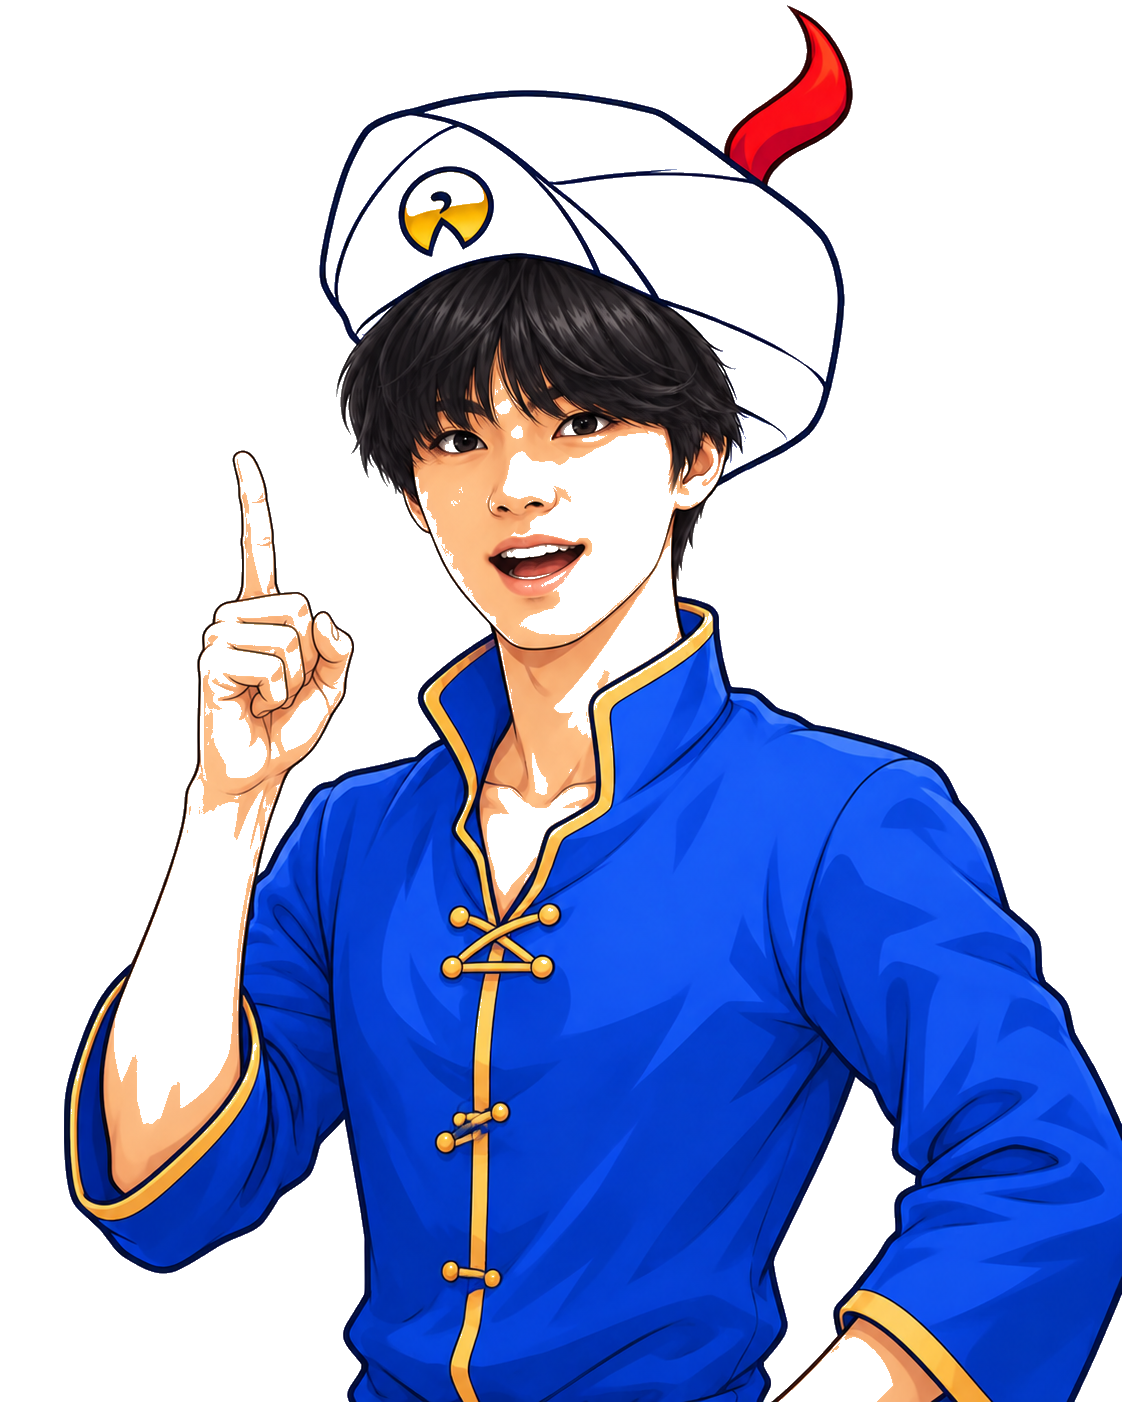
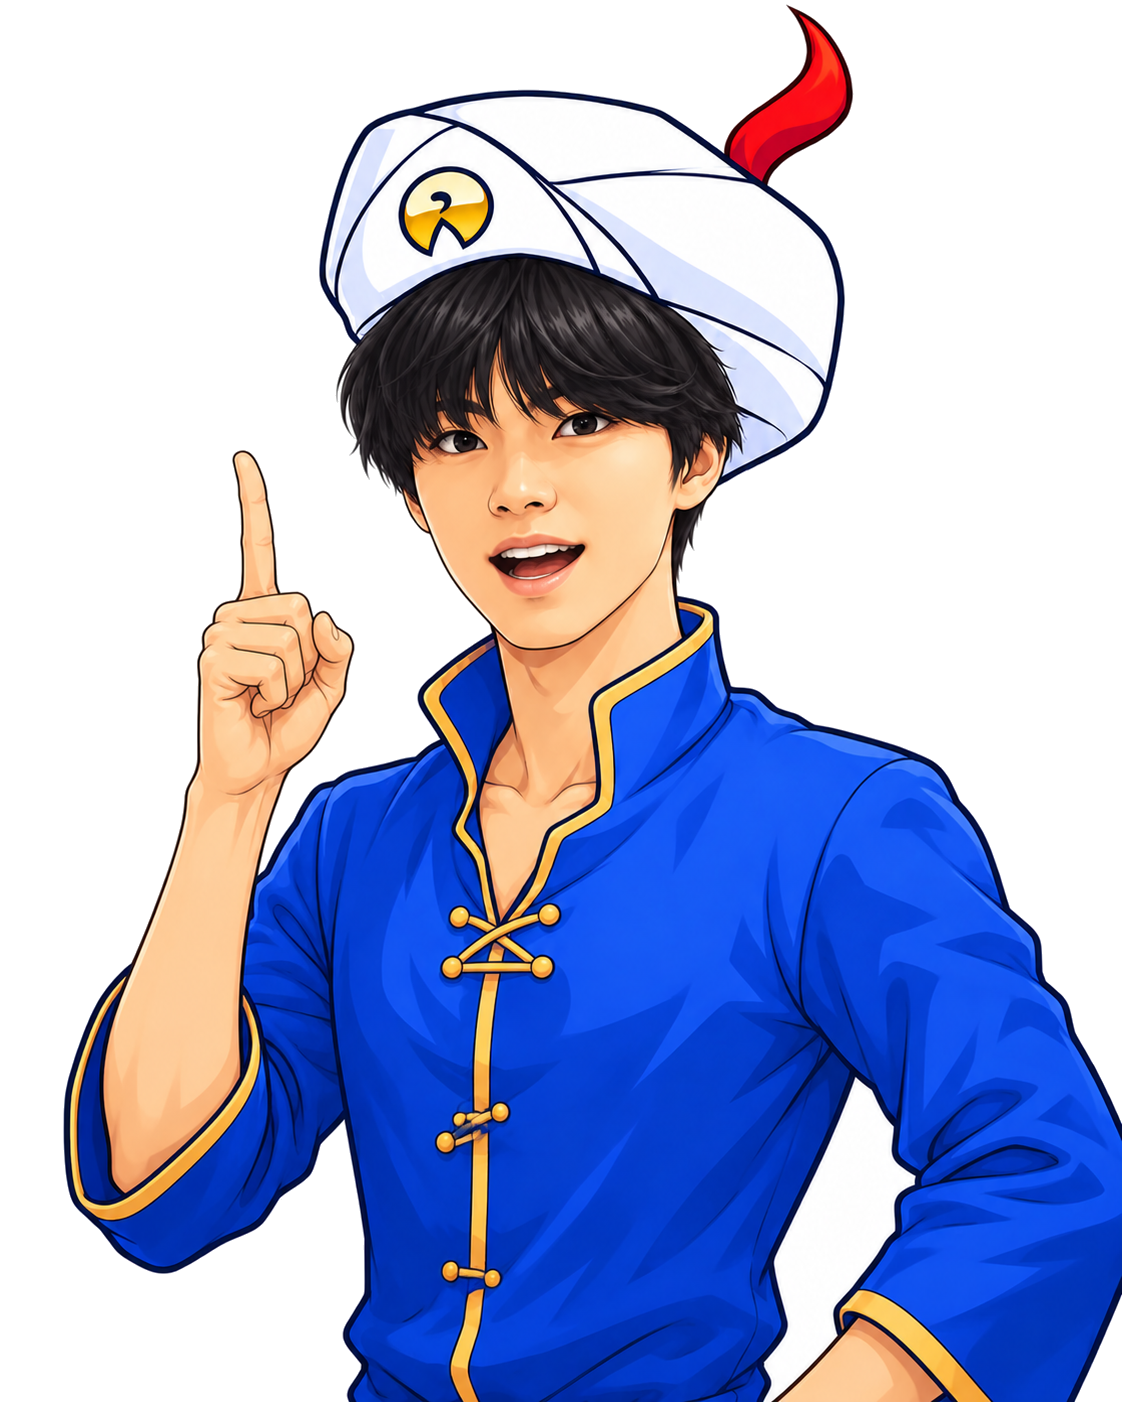
fix: 最低4問を強制・画像透過toleranceを15に調整・unoptimized追加

diff --git a/app/api/answer/route.ts b/app/api/answer/route.ts
@@ -79,7 +79,16 @@ export async function POST(request: NextRequest): Promise<Response> {
       )
 
       const validated = AnswerResponseSchema.safeParse(raw)
-      const result = validated.success ? fixAnswerType(validated.data) : FALLBACK
+      let result = validated.success ? fixAnswerType(validated.data) : FALLBACK
+
+      // 4問未満では強制的に継続させる
+      const questionCount = (parsed.data.history as ConversationEntry[]).filter(
+        (e) => e.role === "assistant"
+      ).length
+      if (result.done && questionCount < 4) {
+        result = { ...result, done: false }
+      }
+
       await send("result", result)
     } catch (err) {
       const message = err instanceof Error ? err.message : String(err)

diff --git a/components/akinator/Character.tsx b/components/akinator/Character.tsx
@@ -47,6 +47,7 @@ export function Character({ state }: CharacterProps) {
         height={280}
         style={{ objectFit: 'contain' }}
         priority
+        unoptimized
       />
     </div>
   )
